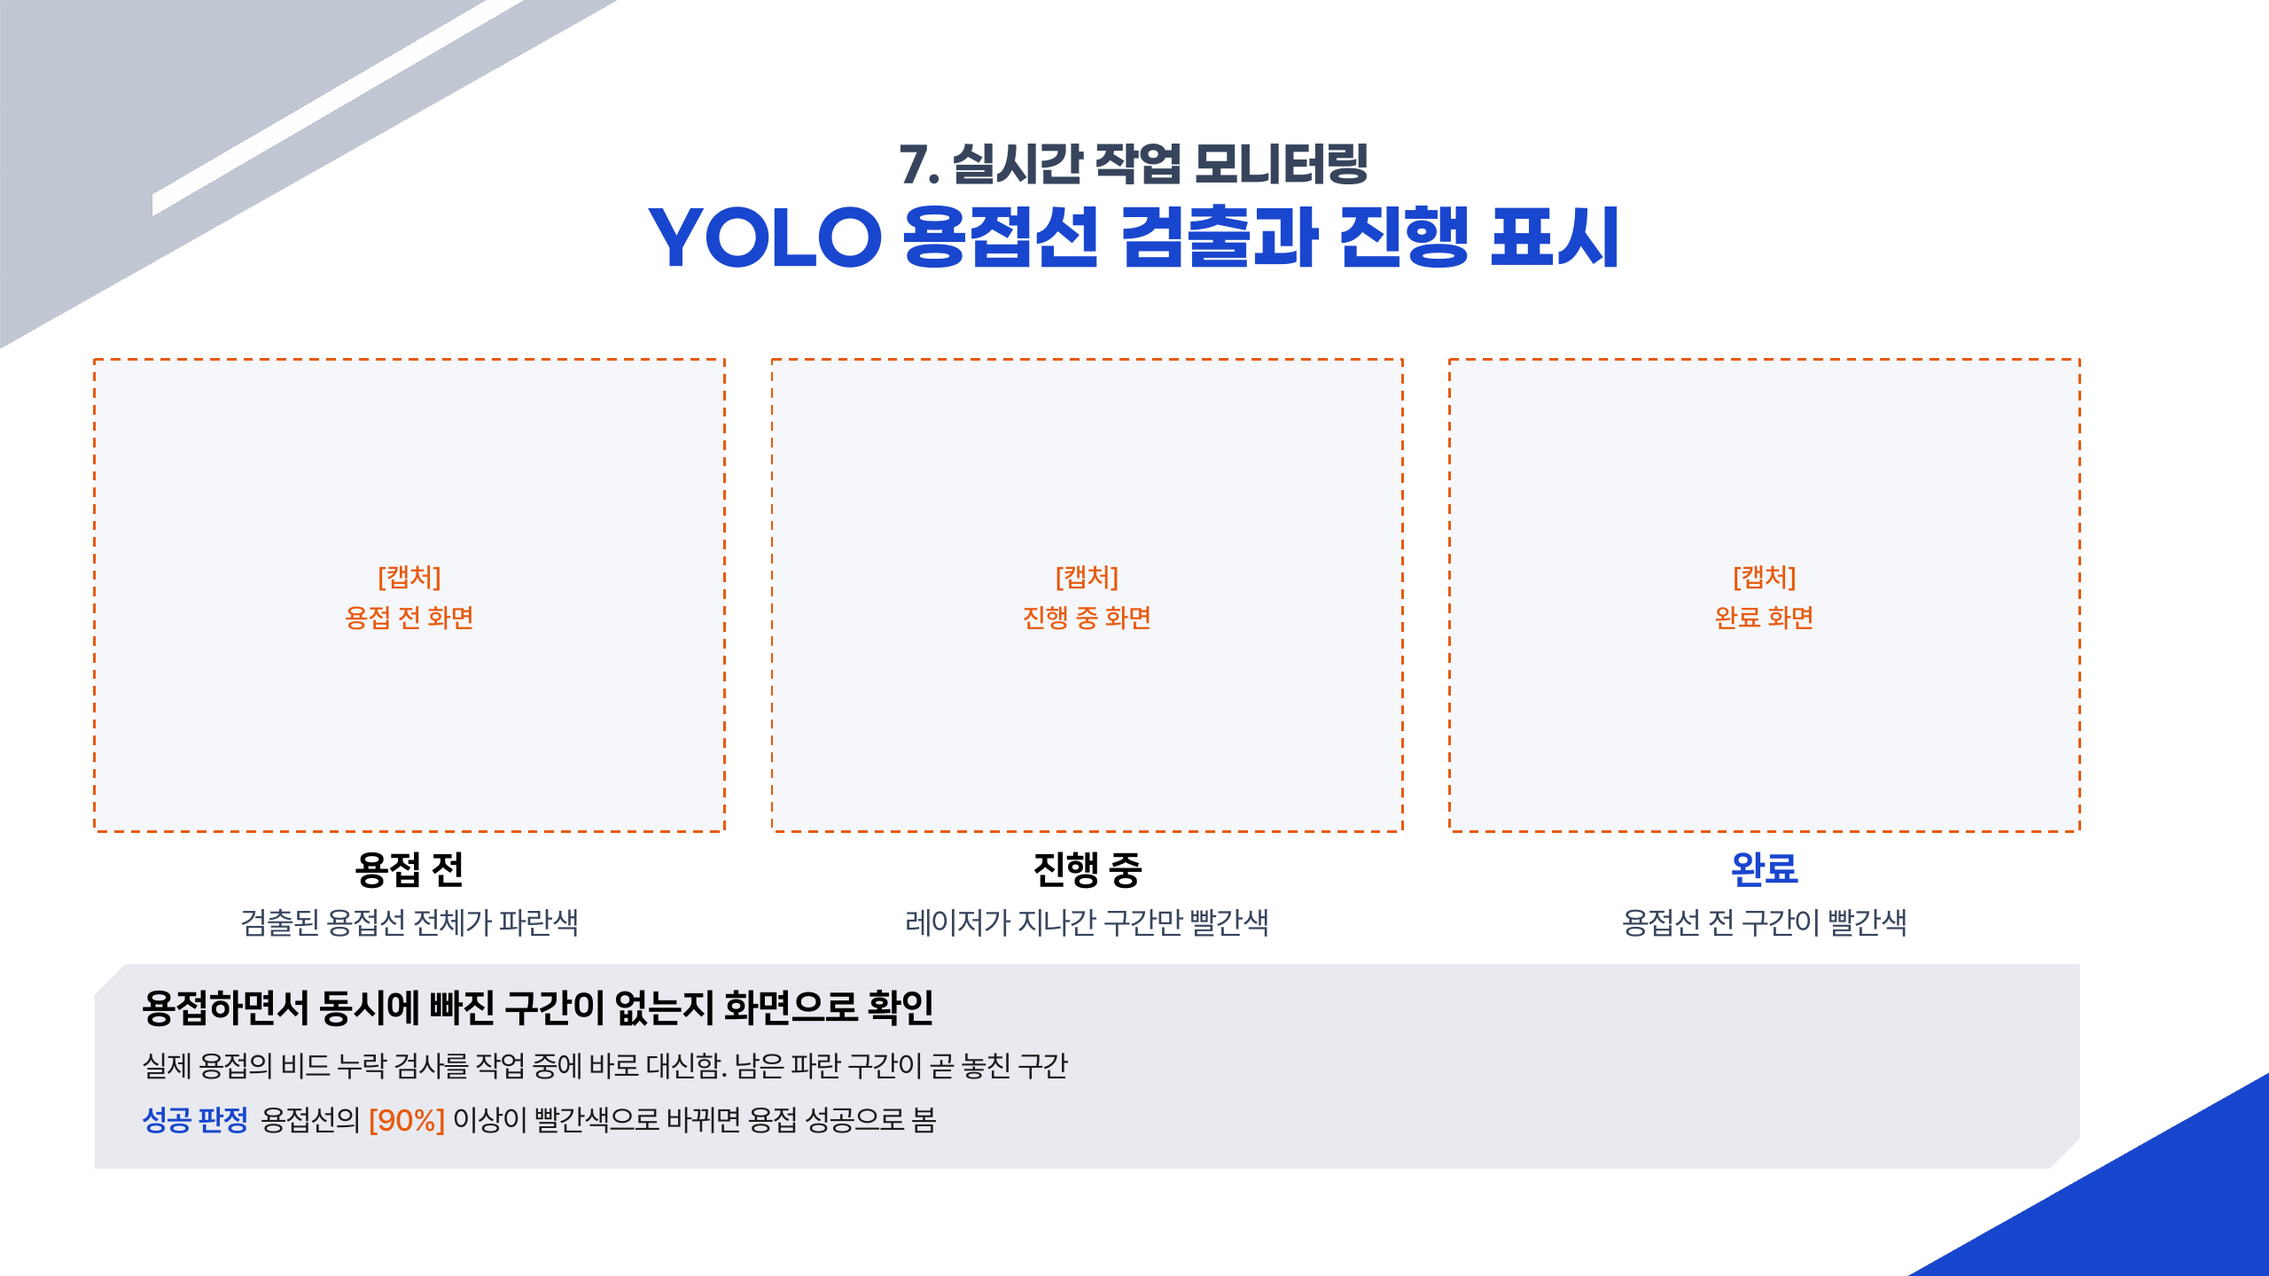
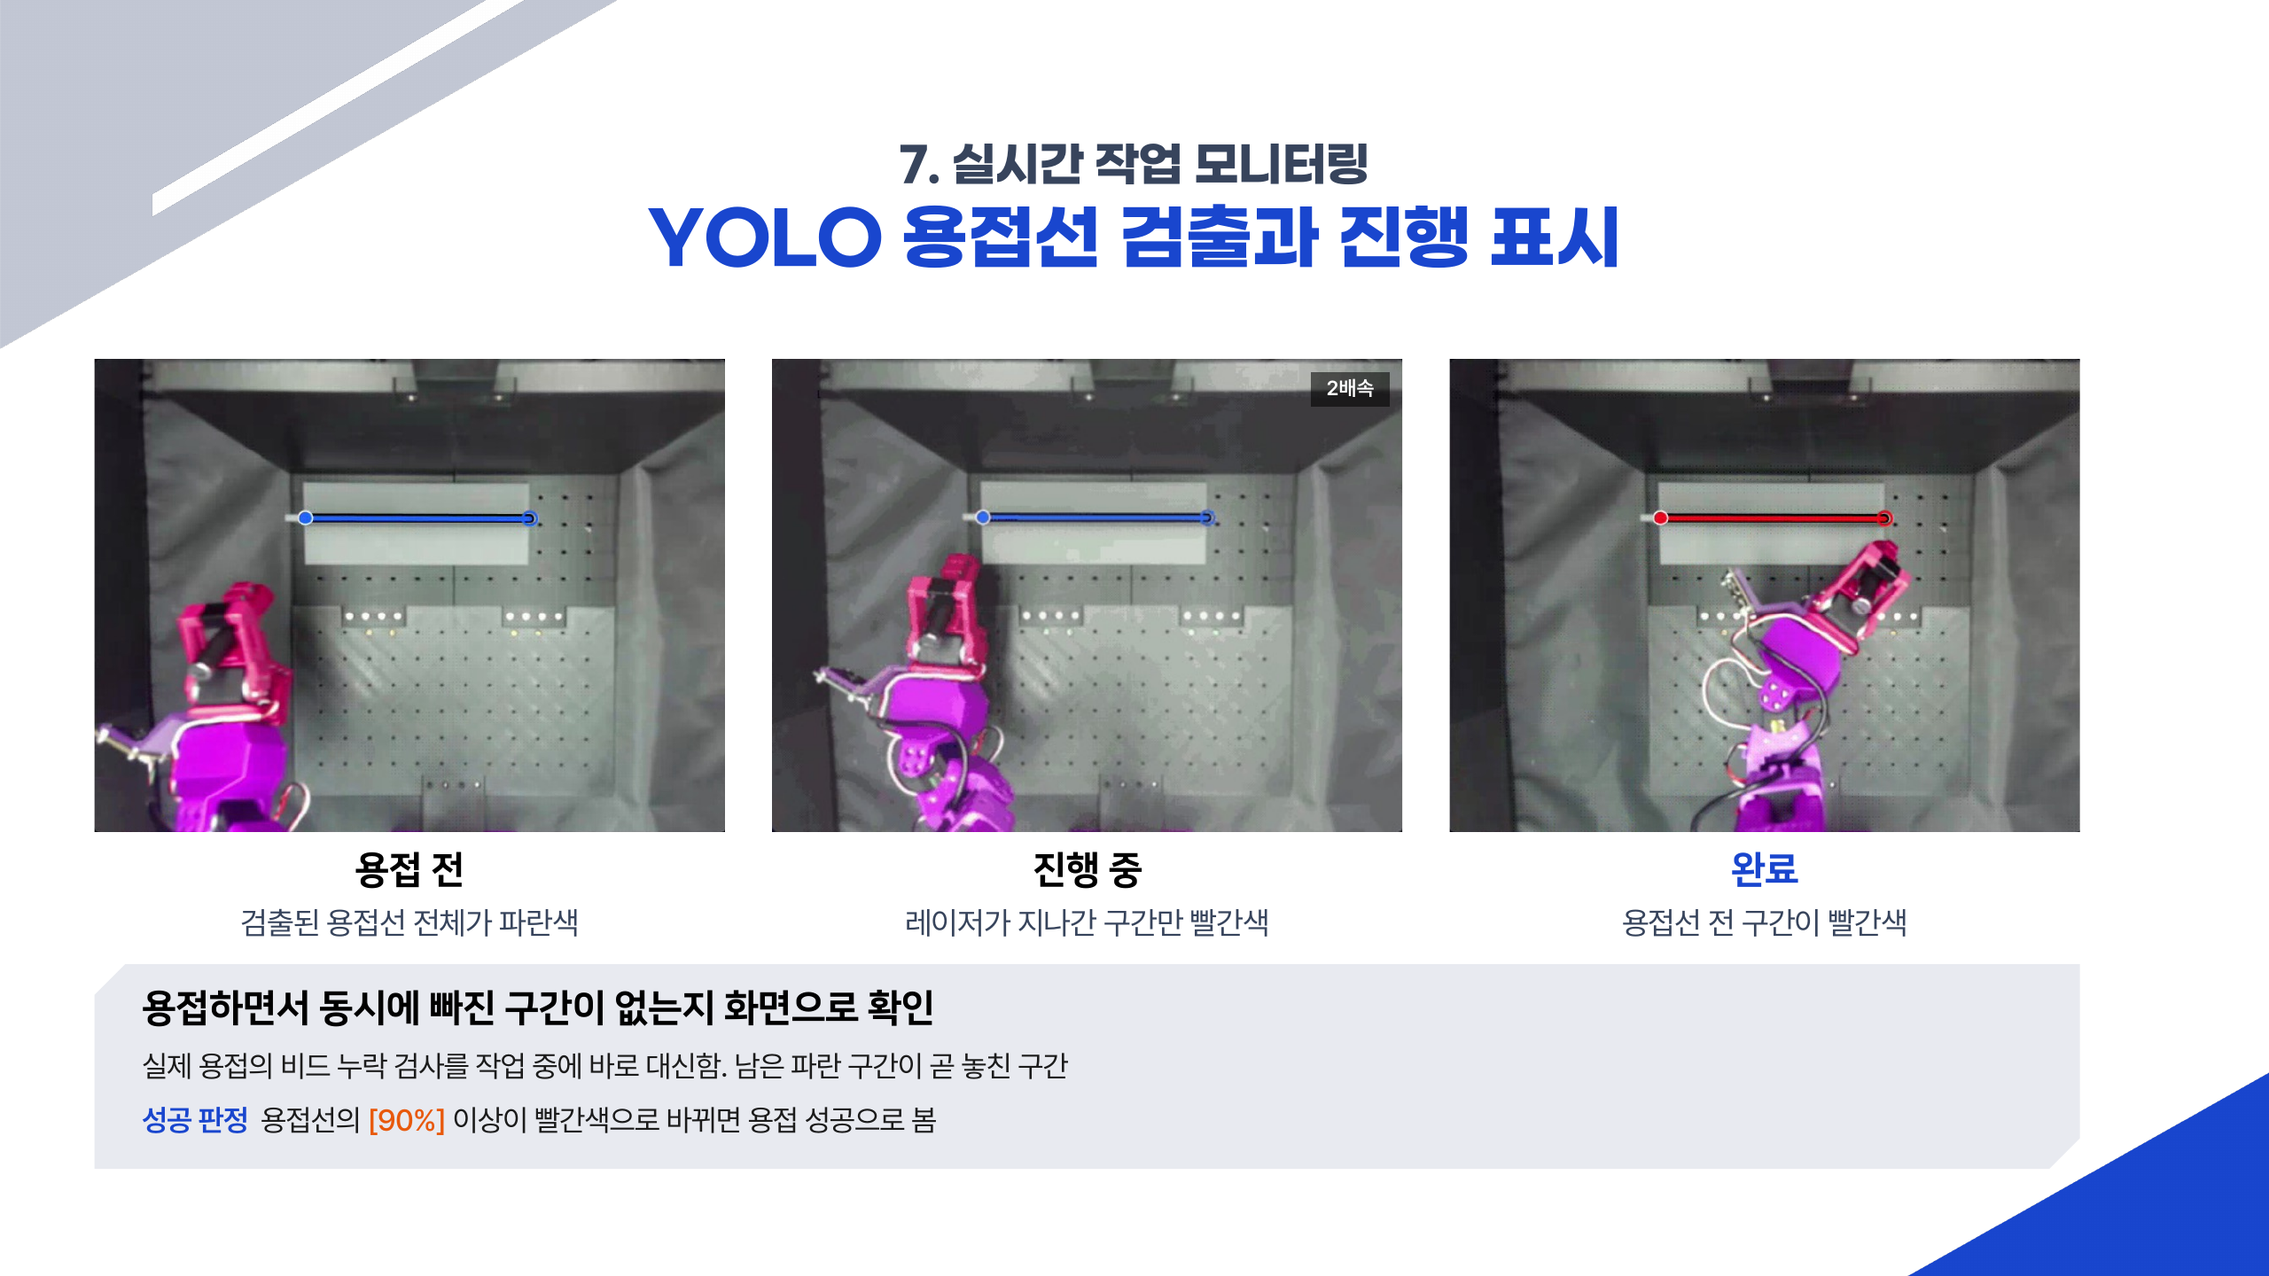
시연 영상 4개를 GIF로 만들어 12, 13, 16장에 배치
- 16장 시연 영상 자리: 휴대폰 촬영 T자 필릿(100k)과 코너(30k) 시연, 2배속
- 13장 캡처 자리: T자 상단 카메라 실제 화면. 용접 전과 완료는 정지 화면,
  진행 중은 용접선이 빨갛게 바뀌는 2배속 GIF
- 12장 대시보드 카메라 칸: 코너 시편 실제 화면 녹화(상단, 손목), 3배속
웹 슬라이드는 6장처럼 GIF를 같은 자리에 겹치고 배속 표시와 카메라 이름 띠를
HTML로 다시 올림.

diff --git a/index.html b/index.html
@@ -24,6 +24,13 @@
   .slide.active { visibility: visible; opacity: 1; }
   div.slide > img { width: 100%; height: 100%; display: block; }
   .clip { position: absolute; object-fit: cover; background: #1F2633; }
+  /* 영상 위 글자: 무대 폭 1440pt 기준 크기를 화면 폭에 맞춰 축소 */
+  .stage { --u: calc(min(100vw, 100vh * 16 / 9) / 1440); }
+  .tag, .camlabel { position: absolute; box-sizing: border-box; display: flex; align-items: center;
+    background: rgba(0, 0, 0, .55); color: #fff; font-family: "Pretendard", -apple-system, "Apple SD Gothic Neo", sans-serif; }
+  .tag { justify-content: center; font-weight: 600; font-size: calc(var(--u) * 13); }
+  .camlabel { justify-content: space-between; padding: 0 calc(var(--u) * 12); font-weight: 500; font-size: calc(var(--u) * 16); }
+  .camlabel b { color: #FF8A8A; font-weight: 600; font-size: calc(var(--u) * 14); }
 
   .bar {
     position: fixed; right: 14px; bottom: 10px;
@@ -42,31 +49,52 @@
 </head>
 <body>
 <main class="stage" id="stage">
-  <img class="slide" src="deck/final/01.png?v=11120436" alt="2026 IRC 지능로봇대회 매니퓰레이터 종목. 제조 디지털 전환(DX) 6축 자율용접 로봇. 손태산, 김광빈, 김동희, 왕혜영">
-  <img class="slide" src="deck/final/02.png?v=11120436" alt="목차" loading="lazy">
-  <img class="slide" src="deck/final/03.png?v=11120436" alt="1. 프로젝트 개요. 6축 자율용접 로봇" loading="lazy">
-  <img class="slide" src="deck/final/04.png?v=11120436" alt="2. 프로젝트 수행 배경: 숙련 기술의 단절과 기존 자동용접의 한계. 실내 철골 제작공장 자동용접 사진, 강교량 야외 건설현장 사진" loading="lazy">
-  <img class="slide" src="deck/final/05.png?v=11120436" alt="3. 프로젝트 수행 필요성: 숙련 기술의 계승과 비정형 환경 대응을 위한 자율용접 기술의 필요성" loading="lazy">
+  <img class="slide" src="deck/final/01.png?v=11121123" alt="2026 IRC 지능로봇대회 매니퓰레이터 종목. 제조 디지털 전환(DX) 6축 자율용접 로봇. 손태산, 김광빈, 김동희, 왕혜영">
+  <img class="slide" src="deck/final/02.png?v=11121123" alt="목차" loading="lazy">
+  <img class="slide" src="deck/final/03.png?v=11121123" alt="1. 프로젝트 개요. 6축 자율용접 로봇" loading="lazy">
+  <img class="slide" src="deck/final/04.png?v=11121123" alt="2. 프로젝트 수행 배경: 숙련 기술의 단절과 기존 자동용접의 한계. 실내 철골 제작공장 자동용접 사진, 강교량 야외 건설현장 사진" loading="lazy">
+  <img class="slide" src="deck/final/05.png?v=11121123" alt="3. 프로젝트 수행 필요성: 숙련 기술의 계승과 비정형 환경 대응을 위한 자율용접 기술의 필요성" loading="lazy">
   <div class="slide">
-    <img src="deck/final/06.png?v=11120436" alt="4. 개발 목표 및 차별성: 룰 베이스를 넘어 숙련 행동 학습으로. OPTi3 용접로봇 전시 시연과 실제 아크 용접 영상, 기존 룰 베이스와 본 프로젝트 비교, 최종 개발 목표" loading="lazy">
+    <img src="deck/final/06.png?v=11121123" alt="4. 개발 목표 및 차별성: 룰 베이스를 넘어 숙련 행동 학습으로. OPTi3 용접로봇 전시 시연과 실제 아크 용접 영상, 기존 룰 베이스와 본 프로젝트 비교, 최종 개발 목표" loading="lazy">
     <!-- PPT 6장 영상 자리(x 60/468, y 270, 392×294pt / 1440×810pt)에 맞춰 올린 6초~20초 구간 GIF -->
-    <img class="clip" style="left:4.1667%; top:33.333%; width:27.222%; height:36.296%;" src="deck/img/opti3_demo.gif?v=11120436" alt="OPTi3 전시 시연 6초에서 20초 구간" loading="lazy">
-    <img class="clip" style="left:32.5%; top:33.333%; width:27.222%; height:36.296%;" src="deck/img/opti3_arc.gif?v=11120436" alt="OPTi3 실제 아크 용접 6초에서 20초 구간" loading="lazy">
+    <img class="clip" style="left:4.1667%; top:33.333%; width:27.222%; height:36.296%;" src="deck/img/opti3_demo.gif?v=11121123" alt="OPTi3 전시 시연 6초에서 20초 구간" loading="lazy">
+    <img class="clip" style="left:32.5%; top:33.333%; width:27.222%; height:36.296%;" src="deck/img/opti3_arc.gif?v=11121123" alt="OPTi3 실제 아크 용접 6초에서 20초 구간" loading="lazy">
   </div>
-  <img class="slide" src="deck/final/07.png?v=11120436" alt="5. 개발 대상 및 자율 작업 시나리오: 수평 접합선에 대응하는 자율용접 작업 구현. 3면 직각 시편과 T형 필릿 시편" loading="lazy">
-  <img class="slide" src="deck/final/08.png?v=11120436" alt="6. 시스템 구성 및 하드웨어 설계: 자율용접 로봇 시스템 아키텍처" loading="lazy">
-  <img class="slide" src="deck/final/09.png?v=11120436" alt="6. 시스템 구성 및 하드웨어 설계: 역할을 나눈 세 가지 AI. ACT 모방학습(제어), YOLO 용접선 검출(인식과 검증), 손 검출 인터록(안전)" loading="lazy">
-  <img class="slide" src="deck/final/10.png?v=11120436" alt="6. 시스템 구성 및 하드웨어 설계: 하드웨어 설계. SolidWorks 조립 기반 6축 매니퓰레이터와 레이저 엔드이펙터 렌더, 엔드이펙터 CAD, 매니퓰레이터, 엔드이펙터, 카메라, 개선 내용" loading="lazy">
-  <img class="slide" src="deck/final/11.png?v=11120436" alt="6. 시스템 구성 및 하드웨어 설계: 직접 개선한 기술. 엔드이펙터 설계 변천 v1, v2, v3, 최종 레이저 일체형" loading="lazy">
-  <img class="slide" src="deck/final/12.png?v=11120436" alt="7. 실시간 작업 모니터링: 웹 대시보드로 보는 영상과 로봇 상태" loading="lazy">
-  <img class="slide" src="deck/final/13.png?v=11120436" alt="7. 실시간 작업 모니터링: YOLO 용접선 검출과 진행 표시, 성공 판정 기준" loading="lazy">
-  <img class="slide" src="deck/final/14.png?v=11120436" alt="7. 실시간 작업 모니터링: YOLO 추론 최적화로 2.1배 가속. PyTorch에서 ONNX, TensorRT FP16 변환, 1회 추론 시간 중앙값 8.1 ms에서 3.8 ms, 정확도 유지, ACT 정책 변환 예정" loading="lazy">
-  <img class="slide" src="deck/final/15.png?v=11120436" alt="8. ACT 기반 모방학습 및 자율 제어: 시연, 기록, ACT 학습, 자율 실행, ACT는 동작을 묶음으로 예측" loading="lazy">
-  <img class="slide" src="deck/final/16.png?v=11120436" alt="9. 자율 용접 시연: 임의 배치 시편 자율용접 시연, 확인 항목 8개, 시연 시편(T자 필릿, 3면 직각)" loading="lazy">
-  <img class="slide" src="deck/final/17.png?v=11120436" alt="9. 자율 용접 시연: 성공 판정 기준. 시편 인식, 시작점 접근, 토치 거리 유지, 레이저 ON, 용접선 추종, 종료점 도달, 레이저 OFF, 원위치 복귀의 8개 항목을 모두 통과해야 성공. 용접선 추종은 경로 이탈 5mm 이하와 용접선의 90% 이상이 빨간색으로 바뀌는 것" loading="lazy">
-  <img class="slide" src="deck/final/18.png?v=11120436" alt="9. 자율 용접 시연: 시연 결과. 성공 기준은 8개 판정 항목을 모두 통과한 시도" loading="lazy">
-  <img class="slide" src="deck/final/19.png?v=11120436" alt="10. 결론 및 향후 과제" loading="lazy">
-  <img class="slide" src="deck/final/20.png?v=11120436" alt="10. 결론 및 향후 과제: 한계점과 향후 과제, 홈페이지 QR 코드" loading="lazy">
+  <img class="slide" src="deck/final/07.png?v=11121123" alt="5. 개발 대상 및 자율 작업 시나리오: 수평 접합선에 대응하는 자율용접 작업 구현. 3면 직각 시편과 T형 필릿 시편" loading="lazy">
+  <img class="slide" src="deck/final/08.png?v=11121123" alt="6. 시스템 구성 및 하드웨어 설계: 자율용접 로봇 시스템 아키텍처" loading="lazy">
+  <img class="slide" src="deck/final/09.png?v=11121123" alt="6. 시스템 구성 및 하드웨어 설계: 역할을 나눈 세 가지 AI. ACT 모방학습(제어), YOLO 용접선 검출(인식과 검증), 손 검출 인터록(안전)" loading="lazy">
+  <img class="slide" src="deck/final/10.png?v=11121123" alt="6. 시스템 구성 및 하드웨어 설계: 하드웨어 설계. SolidWorks 조립 기반 6축 매니퓰레이터와 레이저 엔드이펙터 렌더, 엔드이펙터 CAD, 매니퓰레이터, 엔드이펙터, 카메라, 개선 내용" loading="lazy">
+  <img class="slide" src="deck/final/11.png?v=11121123" alt="6. 시스템 구성 및 하드웨어 설계: 직접 개선한 기술. 엔드이펙터 설계 변천 v1, v2, v3, 최종 레이저 일체형" loading="lazy">
+  <div class="slide">
+    <img src="deck/final/12.png?v=11121123" alt="7. 실시간 작업 모니터링: 웹 대시보드로 보는 영상과 로봇 상태" loading="lazy">
+    <!-- PPT 12장 대시보드 카메라 칸에 올린 실제 화면 녹화 GIF(코너 시편, 3배속) -->
+    <img class="clip" style="left:4.7222%; top:35.0617%; width:25.9722%; height:25.9259%;" src="deck/img/corner_dash_top.gif?v=11121123" alt="상단 카메라 실제 화면. 코너 시편 용접선 두 개가 파란색에서 빨간색으로 바뀜, 3배속" loading="lazy">
+    <img class="clip" style="left:31.8056%; top:35.0617%; width:25.9722%; height:25.9259%;" src="deck/img/corner_dash_wrist.gif?v=11121123" alt="손목 카메라 실제 화면. 시편 위 초록 레이저 점, 3배속" loading="lazy">
+    <span class="camlabel" style="left:4.7222%; top:57.5309%; width:25.9722%; height:3.4568%;">상단 카메라<b>LIVE</b></span>
+    <span class="camlabel" style="left:31.8056%; top:57.5309%; width:25.9722%; height:3.4568%;">손목 카메라<b>LIVE</b></span>
+    <span class="tag" style="left:26.6667%; top:36.0494%; width:3.4722%; height:2.7160%;">3배속</span>
+    <span class="tag" style="left:53.7500%; top:36.0494%; width:3.4722%; height:2.7160%;">3배속</span>
+  </div>
+  <div class="slide">
+    <img src="deck/final/13.png?v=11121123" alt="7. 실시간 작업 모니터링: YOLO 용접선 검출과 진행 표시, 성공 판정 기준" loading="lazy">
+    <!-- PPT 13장 가운데 칸(진행 중)에 올린 2배속 GIF -->
+    <img class="clip" style="left:34.0278%; top:28.1481%; width:27.7778%; height:37.0370%;" src="deck/img/t_yolo_progress.gif?v=11121123" alt="T자 시편 상단 카메라 화면. 레이저가 지나간 구간의 용접선이 파란색에서 빨간색으로 바뀜, 2배속" loading="lazy">
+    <span class="tag" style="left:57.7778%; top:29.1358%; width:3.4722%; height:2.7160%;">2배속</span>
+  </div>
+  <img class="slide" src="deck/final/14.png?v=11121123" alt="7. 실시간 작업 모니터링: YOLO 추론 최적화로 2.1배 가속. PyTorch에서 ONNX, TensorRT FP16 변환, 1회 추론 시간 중앙값 8.1 ms에서 3.8 ms, 정확도 유지, ACT 정책 변환 예정" loading="lazy">
+  <img class="slide" src="deck/final/15.png?v=11121123" alt="8. ACT 기반 모방학습 및 자율 제어: 시연, 기록, ACT 학습, 자율 실행, ACT는 동작을 묶음으로 예측" loading="lazy">
+  <div class="slide">
+    <img src="deck/final/16.png?v=11121123" alt="9. 자율 용접 시연: 임의 배치 시편 자율용접 시연, 확인 항목 8개, 시연 시편(T자 필릿, 3면 직각)" loading="lazy">
+    <!-- PPT 16장 시연 영상 자리(1440×810pt 기준)에 올린 2배속 GIF와 배속 표시 -->
+    <img class="clip" style="left:8.2509%; top:29.1358%; width:22.8602%; height:42.4691%;" src="deck/img/t_demo.gif?v=11121123" alt="T자 필릿 시편 자율용접 시연, 2배속" loading="lazy">
+    <img class="clip" style="left:32.7778%; top:29.1358%; width:22.8602%; height:42.4691%;" src="deck/img/corner_demo.gif?v=11121123" alt="3면 직각 코너 시편 자율용접 시연, 2배속" loading="lazy">
+    <span class="tag" style="left:27.0833%; top:30.1235%; width:3.4722%; height:2.7160%;">2배속</span>
+    <span class="tag" style="left:51.6102%; top:30.1235%; width:3.4722%; height:2.7160%;">2배속</span>
+  </div>
+  <img class="slide" src="deck/final/17.png?v=11121123" alt="9. 자율 용접 시연: 성공 판정 기준. 시편 인식, 시작점 접근, 토치 거리 유지, 레이저 ON, 용접선 추종, 종료점 도달, 레이저 OFF, 원위치 복귀의 8개 항목을 모두 통과해야 성공. 용접선 추종은 경로 이탈 5mm 이하와 용접선의 90% 이상이 빨간색으로 바뀌는 것" loading="lazy">
+  <img class="slide" src="deck/final/18.png?v=11121123" alt="9. 자율 용접 시연: 시연 결과. 성공 기준은 8개 판정 항목을 모두 통과한 시도" loading="lazy">
+  <img class="slide" src="deck/final/19.png?v=11121123" alt="10. 결론 및 향후 과제" loading="lazy">
+  <img class="slide" src="deck/final/20.png?v=11121123" alt="10. 결론 및 향후 과제: 한계점과 향후 과제, 홈페이지 QR 코드" loading="lazy">
 </main>
 
 <div class="bar">

diff --git a/project.html b/project.html
@@ -99,7 +99,7 @@
   <h2><small>01</small>무엇을 만들었나</h2>
   <div class="two">
     <figure>
-      <img class="tall" src="project/img/s3_robot.jpg?v=11120436" alt="3D 프린팅한 레이저 일체형 엔드이펙터를 단 자체 제작 로봇 팔" loading="lazy">
+      <img class="tall" src="project/img/s3_robot.jpg?v=11121123" alt="3D 프린팅한 레이저 일체형 엔드이펙터를 단 자체 제작 로봇 팔" loading="lazy">
       <figcaption>자체 제작 6축 로봇의 레이저 일체형 엔드이펙터</figcaption>
     </figure>
     <div>
@@ -123,7 +123,7 @@
 <section id="system">
   <h2><small>02</small>시스템 구성</h2>
   <figure>
-    <img src="project/img/architecture.png?v=11120436" alt="시스템 구성도. 상단과 손목 카메라 영상이 로컬 PC의 ACT 정책으로 들어가고, 정책의 목표 관절값이 서보 제어를 거쳐 6축 매니퓰레이터와 엔드이펙터로 전달됨. 손 검출 시 정지, 웹 클라이언트로 영상과 상태 전송" loading="lazy">
+    <img src="project/img/architecture.png?v=11121123" alt="시스템 구성도. 상단과 손목 카메라 영상이 로컬 PC의 ACT 정책으로 들어가고, 정책의 목표 관절값이 서보 제어를 거쳐 6축 매니퓰레이터와 엔드이펙터로 전달됨. 손 검출 시 정지, 웹 클라이언트로 영상과 상태 전송" loading="lazy">
   </figure>
   <ul class="plain">
     <li>카메라 2대(상단, 손목) 영상이 USB로 로컬 PC에 들어옵니다.</li>
@@ -153,7 +153,7 @@
   <h3>엔드이펙터 출력 파일</h3>
   <div class="two">
     <figure>
-      <img src="project/img/ee_cad.png?v=11120436" alt="최종 레이저 일체형 엔드이펙터 CAD. 서보와 본체, 레이저 포인터를 잡는 집게와 브래킷" loading="lazy">
+      <img src="project/img/ee_cad.png?v=11121123" alt="최종 레이저 일체형 엔드이펙터 CAD. 서보와 본체, 레이저 포인터를 잡는 집게와 브래킷" loading="lazy">
       <figcaption>최종 레이저 일체형 엔드이펙터</figcaption>
     </figure>
     <div>
@@ -177,7 +177,7 @@
   <h2><small>04</small>엔드이펙터 개선 과정</h2>
   <div class="two">
     <figure>
-      <img src="project/img/ee_torch_old.jpg?v=11120436" alt="1차 설계인 OPTi3 축소 토치형 엔드이펙터 CAD. 토치 옆에 레이저와 서보가 달려 있음" loading="lazy">
+      <img src="project/img/ee_torch_old.jpg?v=11121123" alt="1차 설계인 OPTi3 축소 토치형 엔드이펙터 CAD. 토치 옆에 레이저와 서보가 달려 있음" loading="lazy">
       <figcaption>1차 설계: OPTi3 축소 토치형 (토치 단축, 레이저 후퇴 적용 후)</figcaption>
     </figure>
     <div>
